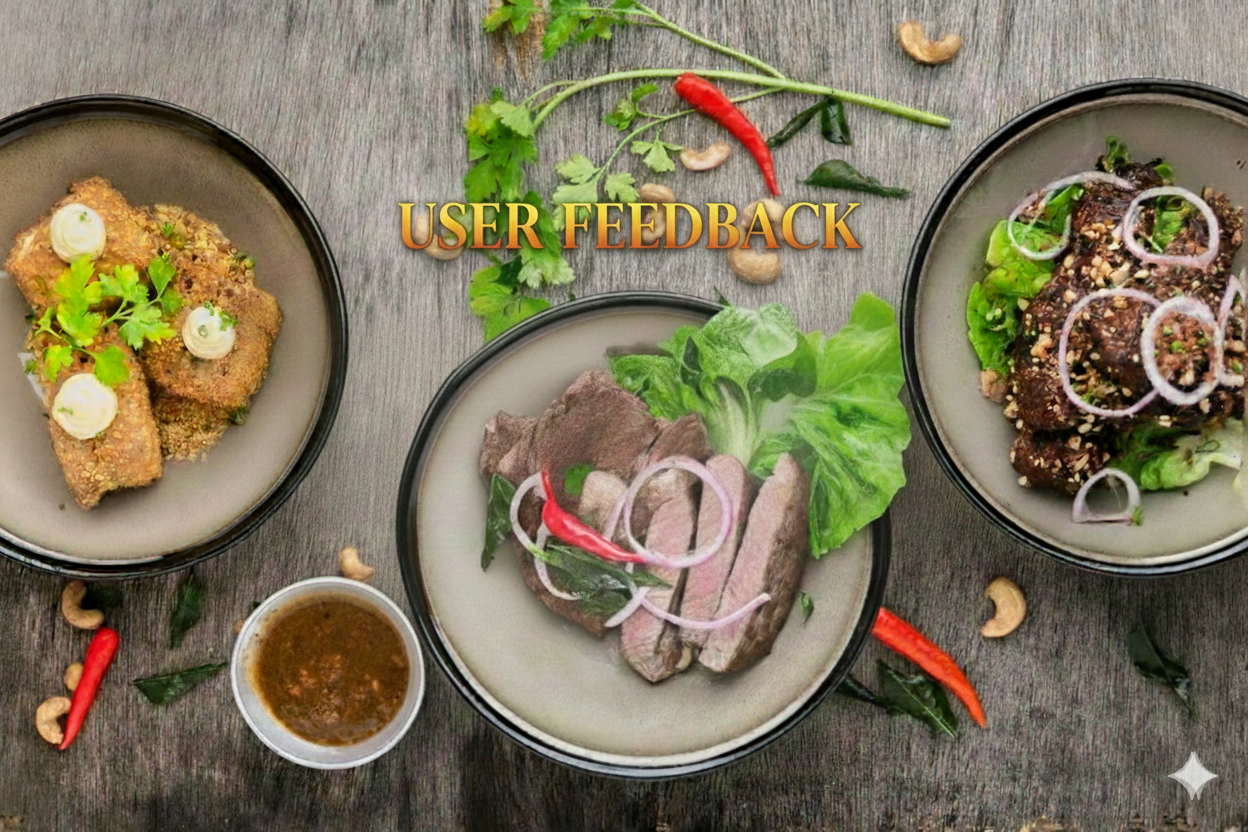
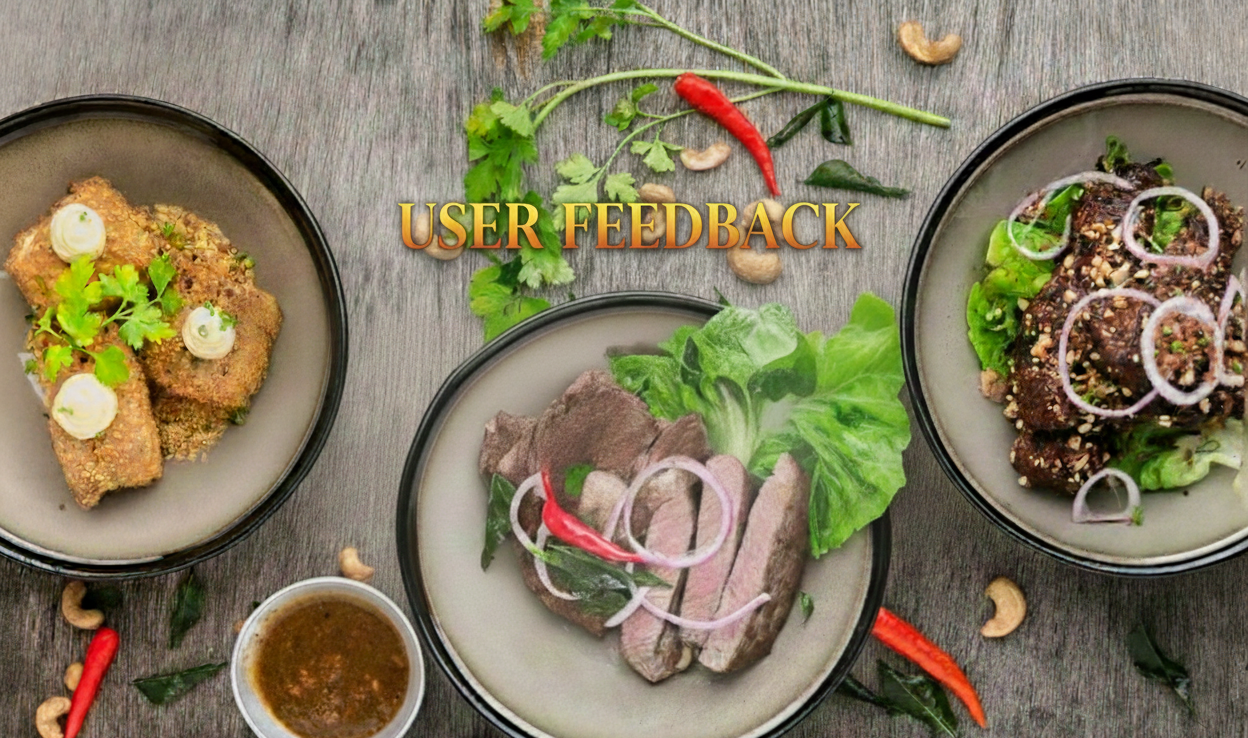
added code contact page

diff --git a/contact.html b/contact.html
@@ -68,7 +68,7 @@
 
     <div class="hero_area">
         <div class="bg-box">
-            <img src="https://images.unsplash.com/photo-1504674900247-0877df9cc836?ixlib=rb-4.0.3&auto=format&fit=crop&w=1920&q=80"
+            <img src="images/feedback.png"
                 alt="Delicious Food Background">
         </div>
 
@@ -186,7 +186,7 @@
             <!-- IMAGE / MAP / ANYTHING YOU WANT -->
             <div class="col-md-6">
                 <div class="map_container">
-                    <img src="images/feedback.jpg" alt="Feedback" style="width:100%; border-radius: 10px;">
+                    <img src="images/feedback-user.png" alt="Feedback" style="width:100%; border-radius: 10px;">
                 </div>
             </div>
         </div>
